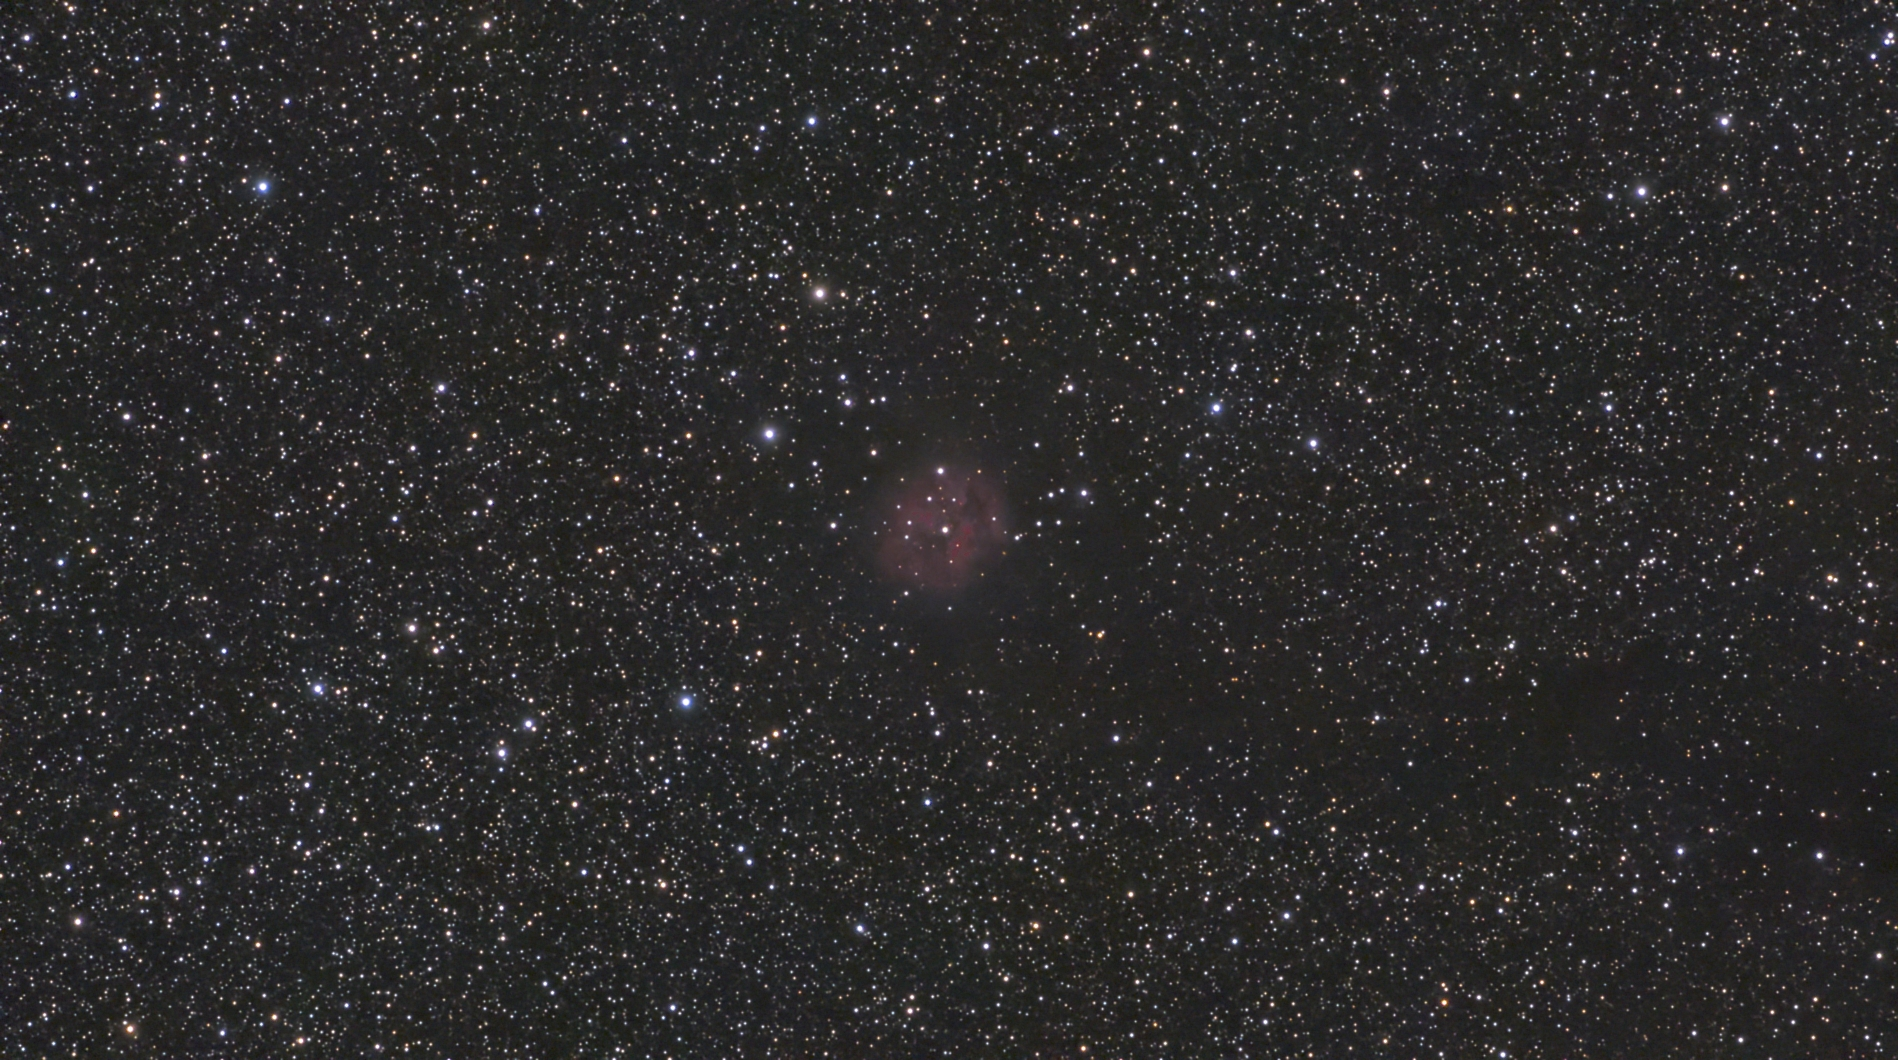
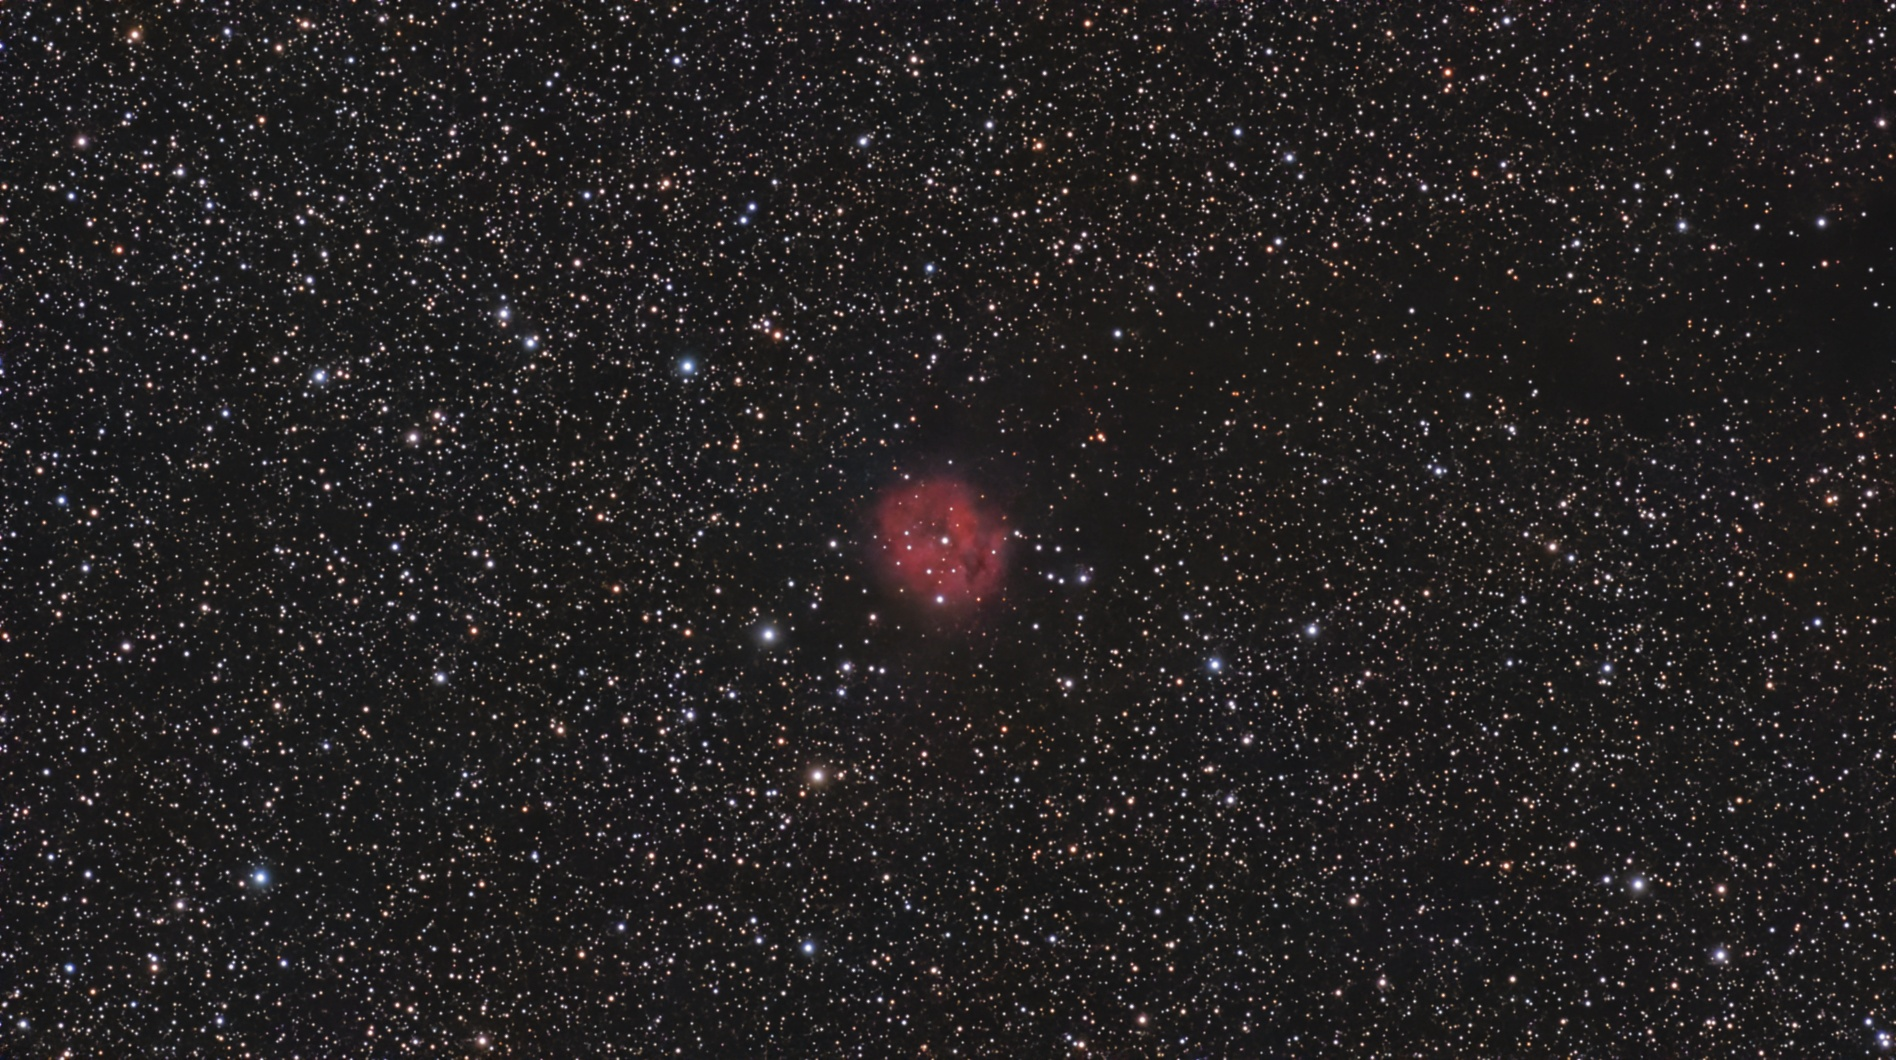
Quartz sync: Nov 6, 2026, 10:33 PM

Changed region(s): [[0.0, 0.0, 1.0, 1.0]]

diff --git a/content/db/M45.md b/content/db/M45.md
@@ -1,21 +1,24 @@
 ---
 Titel: M45
 Entfernung in LJ: 444
-file: db/media/bestof2024/result_siril.jpg
+file: db/media/bestof2026/small/m45.jpg
 Art: Sternenhaufen
-Einzelbilder: 21 * 35 Sek + 1 Dark
-Montierung: Bresser Exos 2
-Guiding: M-GEN2 Autoguiding mit 120 mm  Guidescope
-Objektiv: Spiegeltele Walimex Pro
-Kamera: Canon EOS 550Da
-Aufnahmedatum: 2024-02-26T20:36:00
-Software: Siril v1.2.1
-ISO: 6418
-Aperture: 6.3
+Einzelbilder: 66  * 45 Sek
+Montierung: eq
+Objektiv: Tele
+Kamera: Dwarf mini
+Aufnahmedatum: 2026-11-05T21:45:00
+Software:
+  - StellarStudio
+ISO: 398
+Aperture: 5
 aliases:
   - Plejaden
-Brennweite (mm): 500
+Brennweite (mm): 150
+Brennweite 35mm Äquivalent:
+gain: "40"
+Filter: Astro
 ---
 
 
-![[media/bestof2024/result_siril.jpg ]]
+![[db/media/bestof2026/m45.jpg]]

diff --git a/content/db/NGC7380.md b/content/db/NGC7380.md
@@ -1,0 +1,21 @@
+---
+Titel: NGC 7380
+Art: diffuser Gasnebel
+file: db/media/bestof2026/small/ngc_7380.jpg
+scheinbare Helligkeit in mag: 7.2
+aliases:
+  - Zauberernebel
+Aufnahmedatum: 2026-11-04T21:45:00
+ISO: 1585
+Kamera: Dwarf mini
+Objektiv: Tele
+Brennweite (mm): 150
+Filter: Astro, Dualband
+Software:
+  - StellarStudio
+Einzelbilder: 111 * 45sec (Astro ISO 1585- gain 80) +  56*60Sec (Dualband  ISO 794 - gain 60 , 5.11. 19:20)
+Linearer Durchmesser: 100
+Montierung: eq
+---
+![[media/bestof2026/NGC_7380.jpg]]
+![[Zaubernebel_Dualband.jpg]]

diff --git a/content/db/Seelennebel.md b/content/db/Seelennebel.md
@@ -5,17 +5,18 @@ file: db/media/bestof2026/small/seelennebel_20261020221238888.jpg
 aliases:
   - IC 1848
 Filter: DualBand
-Einzelbilder:
-Gesamtbelichtungszeit (Sekunden):
+Einzelbilder: 34 * 90 Sec
+Gesamtbelichtungszeit (Sekunden): 3060
 Kamera: Dwarf mini
 Aperture: 5
-ISO:
+ISO: 398
 Brennweite (mm): 150
 Aufnahmedatum: 2026-10-20T20:20:00
-gain:
+gain: "40"
 Brennweite 35mm Äquivalent: "1016"
 Software:
   - StellarStudio
+Montierung: eq
 ---
 
 ![[media/bestof2026/Seelennebel_20261020221238888.jpg]]

diff --git a/content/db/C 19.md b/content/db/C 19.md
@@ -17,9 +17,9 @@ ISO: 794
 Kamera: Dwarf mini
 Brennweite (mm): 150
 Aperture: 5
-Einzelbilder: 115 * 15 Sec
+Einzelbilder: 115 * 15 Sec (Astro) + 50*45 Sec (Dualband; ISO 1585)
 Montierung: eq
-filter: Astro
+filter: Astro, Dualband
 Brennweite 35mm Äquivalent: "1016"
 ---
 
